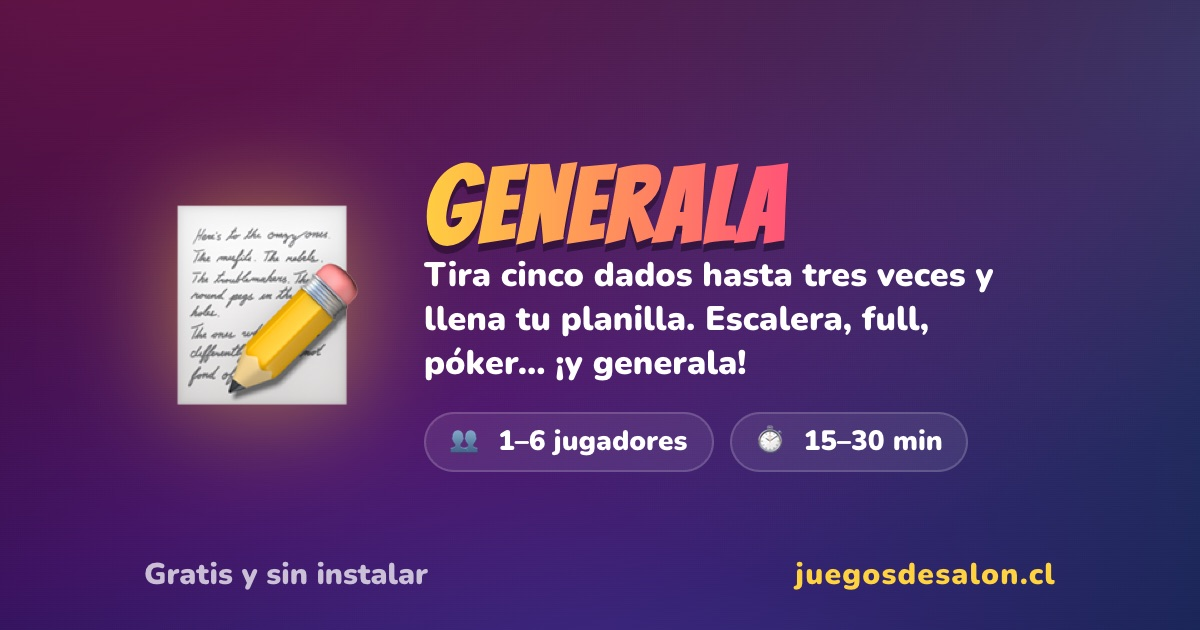
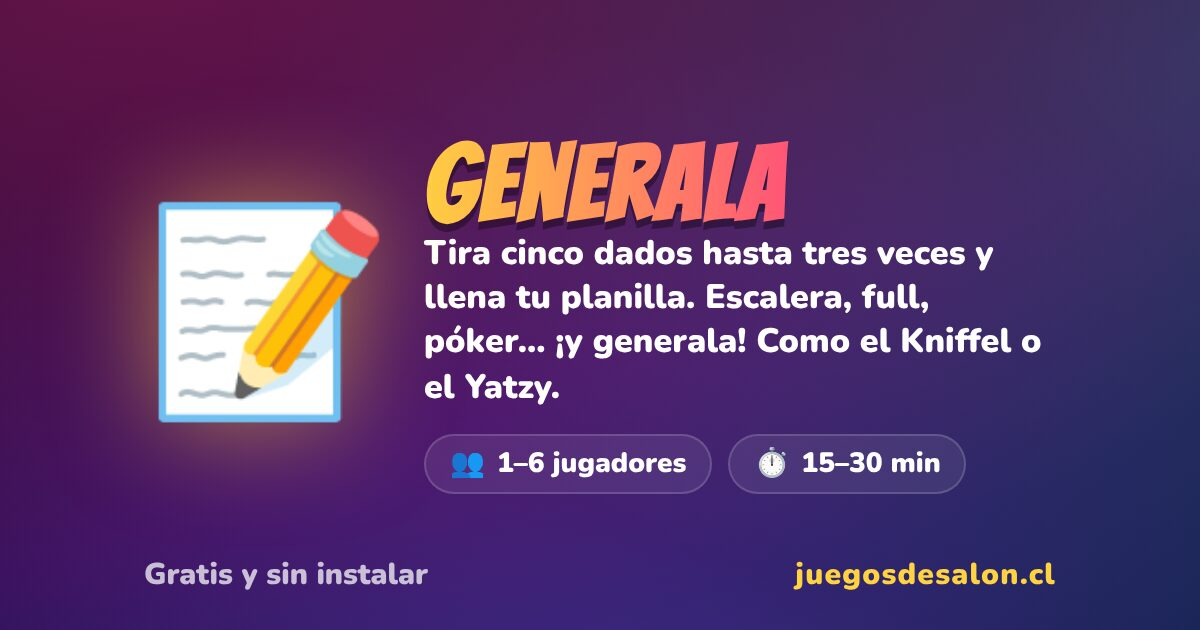
Generala: tagline says it is like Kniffel or Yatzy; both are search keywords in four languages
Claude-Session: https://claude.ai/code/session_01TdroNr4L4d228s39kSfZfF

Changed region(s): [[0.1233, 0.2111, 0.8633, 0.7841], [0.6783, 0.9048, 0.7092, 0.9349]]

diff --git a/public/generala/index.html b/public/generala/index.html
@@ -26,27 +26,27 @@
     })();
   </script>
   <!-- generated: og · rewritten by node tools/release/og.mjs cards -->
-  <meta name="description" content="Tira cinco dados hasta tres veces y llena tu planilla. Escalera, full, póker… ¡y generala! 1–6 jugadores, 15–30 min. Gratis, sin instalar y sin cuenta.">
+  <meta name="description" content="Tira cinco dados hasta tres veces y llena tu planilla. Escalera, full, póker… ¡y generala! Como el Kniffel o el Yatzy. 1–6 jugadores, 15–30 min. Gratis, sin instalar y sin cuenta.">
   <link rel="canonical" href="https://juegosdesalon.cl/generala/">
   <meta property="og:type" content="website">
   <meta property="og:site_name" content="Juegos de Salón">
   <meta property="og:url" content="https://juegosdesalon.cl/generala/">
   <meta property="og:title" content="Generala 📝 · Juegos de Salón">
-  <meta property="og:description" content="Tira cinco dados hasta tres veces y llena tu planilla. Escalera, full, póker… ¡y generala! 1–6 jugadores, 15–30 min. Gratis, sin instalar y sin cuenta.">
+  <meta property="og:description" content="Tira cinco dados hasta tres veces y llena tu planilla. Escalera, full, póker… ¡y generala! Como el Kniffel o el Yatzy. 1–6 jugadores, 15–30 min. Gratis, sin instalar y sin cuenta.">
   <meta property="og:image" content="https://juegosdesalon.cl/assets/og/generala.jpg">
   <meta property="og:image:type" content="image/jpeg">
   <meta property="og:image:width" content="1200">
   <meta property="og:image:height" content="630">
-  <meta property="og:image:alt" content="Generala: Tira cinco dados hasta tres veces y llena tu planilla. Escalera, full, póker… ¡y generala!">
+  <meta property="og:image:alt" content="Generala: Tira cinco dados hasta tres veces y llena tu planilla. Escalera, full, póker… ¡y generala! Como el Kniffel o el Yatzy.">
   <meta property="og:locale" content="es_CL">
   <meta property="og:locale:alternate" content="en_US">
   <meta property="og:locale:alternate" content="pt_BR">
   <meta property="og:locale:alternate" content="de_DE">
   <meta name="twitter:card" content="summary_large_image">
   <meta name="twitter:title" content="Generala 📝 · Juegos de Salón">
-  <meta name="twitter:description" content="Tira cinco dados hasta tres veces y llena tu planilla. Escalera, full, póker… ¡y generala! 1–6 jugadores, 15–30 min. Gratis, sin instalar y sin cuenta.">
+  <meta name="twitter:description" content="Tira cinco dados hasta tres veces y llena tu planilla. Escalera, full, póker… ¡y generala! Como el Kniffel o el Yatzy. 1–6 jugadores, 15–30 min. Gratis, sin instalar y sin cuenta.">
   <meta name="twitter:image" content="https://juegosdesalon.cl/assets/og/generala.jpg">
-  <meta name="twitter:image:alt" content="Generala: Tira cinco dados hasta tres veces y llena tu planilla. Escalera, full, póker… ¡y generala!">
+  <meta name="twitter:image:alt" content="Generala: Tira cinco dados hasta tres veces y llena tu planilla. Escalera, full, póker… ¡y generala! Como el Kniffel o el Yatzy.">
   <!-- /generated -->
   <link rel="manifest" href="../manifest.webmanifest">
   <script>

diff --git a/public/assets/js/games.js b/public/assets/js/games.js
@@ -82,7 +82,7 @@ export const GAMES = [
     tipos: ['tabletop'],
     emoji: '📝',
     name: { es: 'Generala', en: 'Generala', pt: 'General', de: 'Generala' },
-    tagline: { es: 'Tira cinco dados hasta tres veces y llena tu planilla. Escalera, full, póker… ¡y generala!', en: 'Roll five dice up to three times and fill your score card. Straight, full house… and generala!', pt: 'Jogue cinco dados até três vezes e preencha sua cartela. Sequência, full, quadra… e general!', de: 'Wirf fünf Würfel bis zu dreimal und füll deinen Block. Straße, Full House … und Generala!' },
+    tagline: { es: 'Tira cinco dados hasta tres veces y llena tu planilla. Escalera, full, póker… ¡y generala! Como el Kniffel o el Yatzy.', en: 'Roll five dice up to three times and fill your score card. Straight, full house… and generala! Like Kniffel or Yatzy.', pt: 'Jogue cinco dados até três vezes e preencha sua cartela. Sequência, full, quadra… e general! Como o Kniffel ou o Yatzy.', de: 'Wirf fünf Würfel bis zu dreimal und füll deinen Block. Straße, Full House … und Generala! Wie Kniffel oder Yatzy.' },
     players: '1–6',
     duration: '15–30',
     jugadas: ['roll', 'score'],

diff --git a/public/assets/js/search.js b/public/assets/js/search.js
@@ -120,10 +120,10 @@ export const KEYWORDS = {
     de: ['karten', 'kartenspiel', 'trinken', 'trinkspiel', 'party', 'könig'],
   },
   generala: {
-    es: ['dados', 'escalera', 'full', 'poker', 'planilla', 'cubilete'],
-    en: ['dice', 'yahtzee', 'straight', 'full', 'house', 'poker', 'scorecard'],
-    pt: ['dados', 'sequência', 'full', 'poker', 'general', 'yahtzee', 'copo'],
-    de: ['würfel', 'straße', 'full house', 'poker', 'kniffel', 'yahtzee', 'becher'],
+    es: ['dados', 'escalera', 'full', 'poker', 'planilla', 'cubilete', 'kniffel', 'yatzy'],
+    en: ['dice', 'yahtzee', 'kniffel', 'yatzy', 'straight', 'full', 'house', 'poker', 'scorecard'],
+    pt: ['dados', 'sequência', 'full', 'poker', 'general', 'yahtzee', 'kniffel', 'yatzy', 'copo'],
+    de: ['würfel', 'straße', 'full house', 'poker', 'kniffel', 'yatzy', 'yahtzee', 'becher'],
   },
   julepe: {
     es: ['cartas', 'naipes', 'baraja', 'bazas', 'apuesta'],

diff --git a/docs/games/generala.md b/docs/games/generala.md
@@ -53,7 +53,10 @@ favorites and Uno al día like any other game.
 - **Rival de máquina:** no hay información oculta ni decisiones contra otro, así que un rival que
   tira sus dados no agrega nada. Es un juego de "🧍 Jugar solo" con récord, como Toque y Fama (C-5).
 - **Kniffel y Yahtzee** son marcas (de Schmidt y de Hasbro) y además otro juego (otras casillas, el
-  bono, el "chance"). En alemán se llama Generala, con las casillas con nombre alemán.
+  bono, el "chance"). En alemán se llama Generala, con las casillas con nombre alemán. On the owner's
+  request (2026-10-20) the home card tagline says it is like Kniffel or Yatzy, in the four languages,
+  and "kniffel" and "yatzy" are search keywords in every language, so a player who knows the game by
+  those names finds it; the game is still called Generala.
 
 ## Modos
 

diff --git a/changelog/generala-kniffel.md b/changelog/generala-kniffel.md
@@ -1,0 +1,3 @@
+level: patch
+
+- **📝 Generala says it is like Kniffel or Yatzy**, on its home card and its link card in the four languages, and searching "kniffel" or "yatzy" finds it in every language (owner's request).
